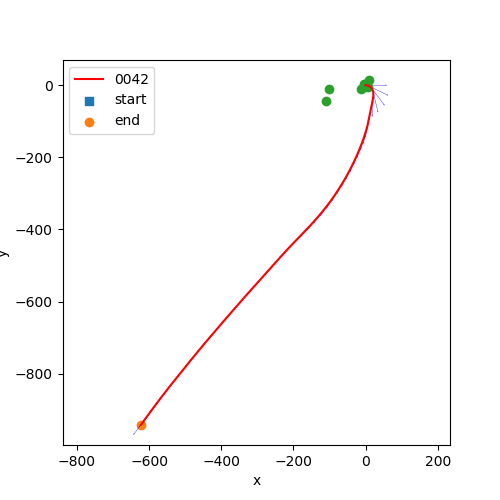
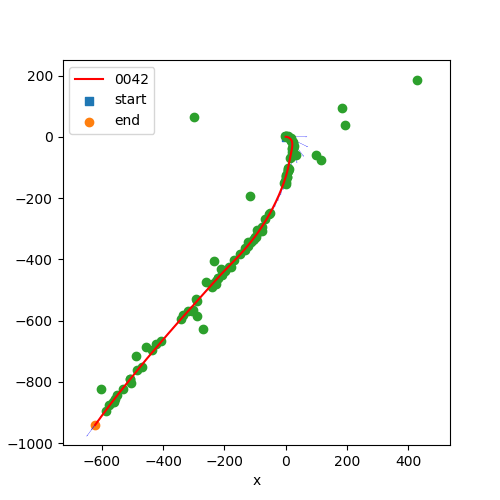
patching it up

diff --git a/EKF.py b/EKF.py
@@ -127,8 +127,8 @@ class Landmark:
 			oTi:
 		'''
 		if not self.observed:
-			v = np.dot(np.linalg.pinv(self.M),z)
-			v = v/(z[0]-z[2])
+			v = np.dot(z,np.linalg.inv(self.M))
+			v = v/v[3]
 			self._mu = np.dot(np.linalg.pinv(np.dot(self.oTi,pose)),v)
 			self.observed = True
 		else:
@@ -136,7 +136,7 @@ class Landmark:
 			z_hat = np.dot(self.M,pi_q(projection))
 
 			H = np.dot(np.dot(self.M,dpi_dq(projection)),np.dot(np.dot(self.oTi,pose),self.D))
-			K = np.dot(np.dot(self._sigma,H.T),np.linalg.inv(np.dot(np.dot(H,self._sigma),H.T) + np.random.randn(4,4)))
+			K = np.dot(np.dot(self._sigma,H.T),np.linalg.inv(np.dot(np.dot(H,self._sigma),H.T) + np.random.randn(4,4)))/100
 			self._mu = self._mu + np.dot(np.dot(self.D,K),(z - z_hat))
 			self._sigma = np.dot(np.eye(3) - np.dot(K,H),self._sigma)
 

diff --git a/utils.py b/utils.py
@@ -70,8 +70,8 @@ def visualize_trajectory_2d(pose,landmarks,path_name="Unknown",show_ori=False):
   x = []
   y = [] 
   for landmark in landmarks:
-      x.append(landmark.mu[1])
-      y.append(landmark.mu[0])
+      x.append(landmark.mu[0])
+      y.append(landmark.mu[1])
   ax.scatter(x,y)
   ax.set_xlabel('x')
   ax.set_ylabel('y')
